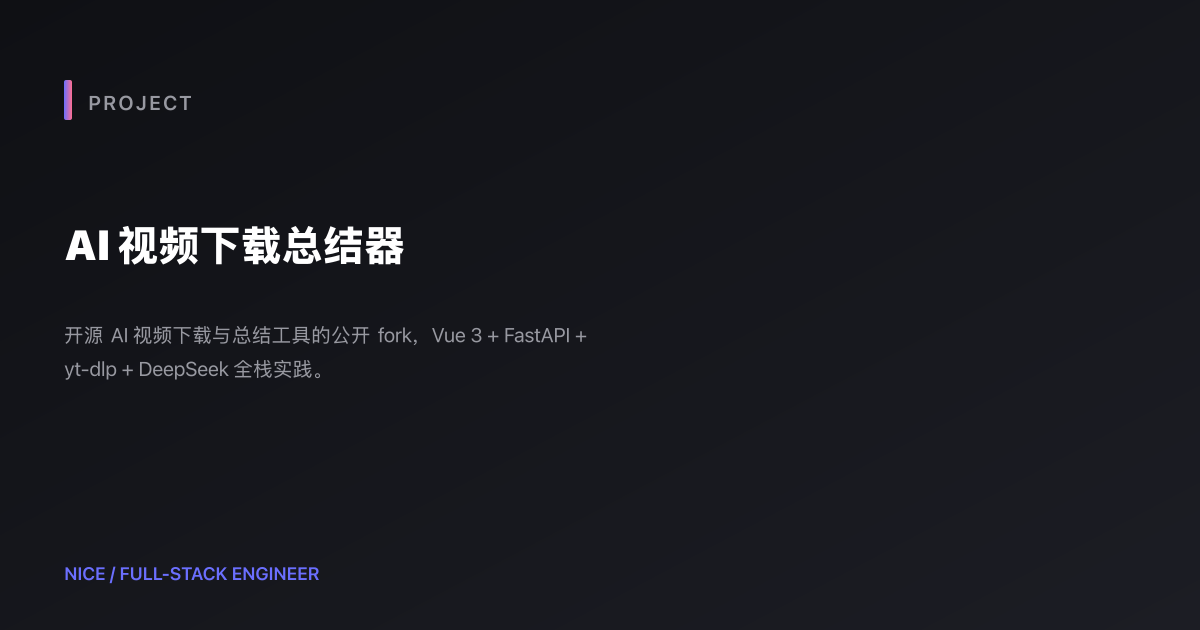
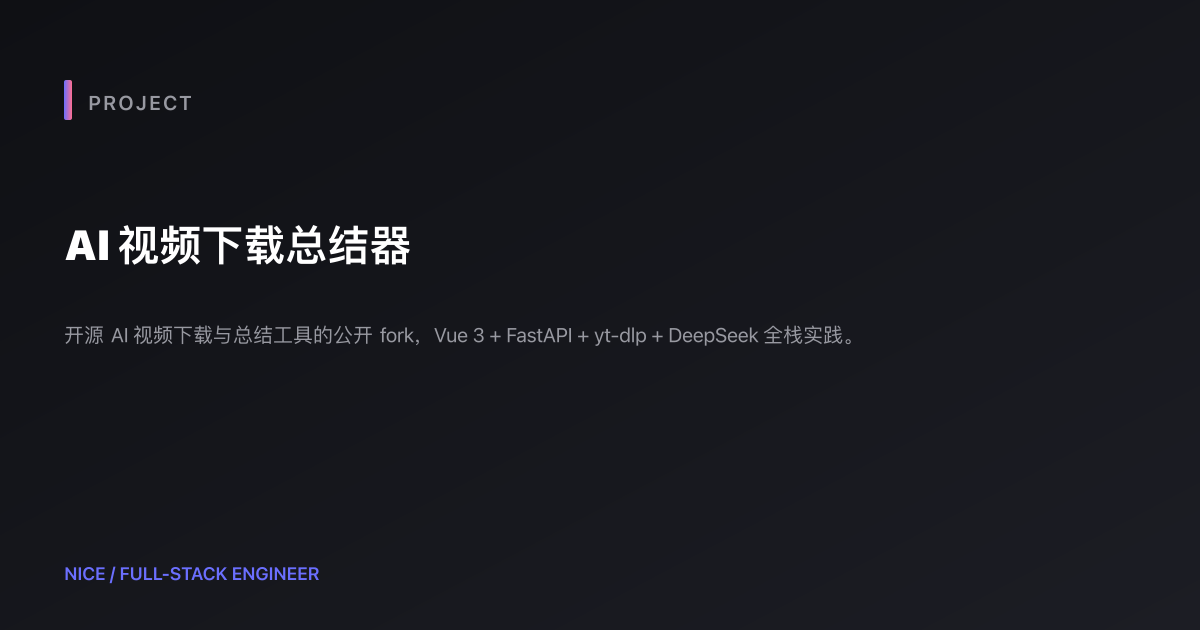
fix(site): 修复焦点环、留言板链接与 OG 图路径判断
- 搜索框不再写 outline:none，保留全局 :focus-visible 键盘焦点环
- 后台审核页「查看页面」改用页面地址，修复留言板 term 生成相对链接 404
- OG 图路径抽到 lib 并按路径段判断，避免 categories 前缀的项目 id 误回落默认图
- 代码块复制按钮按按钮高度补顶部留白，避免遮挡首行
- 截图弹窗打开时锁住底页滚动，避免背景跟随滚动
- 同日文章排序改用 id 兜底；搜索页描述与归档页/品牌保持一致
- 同步更新 tests 与构建产出的 OG 图片

Changed region(s): [[0.0617, 0.5127, 0.7092, 0.5429], [0.0925, 0.3619, 0.3392, 0.4222], [0.0617, 0.573, 0.2775, 0.6032]]

diff --git a/src/lib/og-image.ts b/src/lib/og-image.ts
@@ -3,7 +3,7 @@
  * 返回 SVG（Sharp 支持作为输入），由 Astro SSG 路由转 PNG 输出到 dist。
  *
  * 设计参数（固定，避免动态依赖）：
- *   尺寸 1200×630（OG 标准），内边距 64，最大标题字重 800 34px 截断 2 行。
+ *   尺寸 1200×630（OG 标准），内边距 64，标题 42px 加粗，最多 2 行、超出以省略号截断。
  */
 
 export interface OgPayload {
@@ -19,17 +19,32 @@ export interface OgPayload {
   coverImageUrl?: string;
 }
 
+/**
+ * 页面路径 → OG 图路径。
+ * 只有文章/项目详情页有按内容生成的图（generate-og.mjs 按内容 id 输出），
+ * 列表、标签、分类等页面统一回退站点默认图，避免 og:image 指向 404。
+ */
+export function buildOgPath(pathname: string): string {
+  const [section, ...rest] = pathname.split('/').filter(Boolean);
+  // 按路径段判断，避免 /projects/categories-xxx/ 这类以 categories 开头的项目 id 被误判成分类页。
+  const isDetail = rest.length > 0
+    && (section === 'articles' || (section === 'projects' && rest[0] !== 'categories'));
+  return isDetail ? `/og/${[section, ...rest].join('/')}.png` : '/og/root.png';
+}
+
 /** 硬编码字体 SVG，Sharp rasterize 时转成 PNG。使用系统 sans-serif stack。 */
 export function renderOgSvg(payload: OgPayload): string {
   const { eyebrow, title, description = '', footer = 'NICE / FULL-STACK ENGINEER' } = payload;
 
-  const titleLines = wrapLines(title, 30, 2);
-  const descLines = description ? wrapLines(description, 44, 3) : [];
+  const titleLines = wrapLines(title, { fontSize: 42, maxWidth: CONTENT_WIDTH, maxLines: 2 });
+  const descLines = description
+    ? wrapLines(description, { fontSize: 20, maxWidth: CONTENT_WIDTH, maxLines: 3 })
+    : [];
 
   const titleY = 260;
   const descY = titleY + titleLines.length * 52 + 30;
 
-  const footerSafe = footer.replace(/&/g, '&amp;').replace(/</g, '&lt;');
+  const footerText = escapeSvg(footer);
 
   const titleText = titleLines
     .map((line, i) => `<tspan x="64" dy="${i === 0 ? 0 : 52}">${escapeSvg(line)}</tspan>`)
@@ -53,11 +68,11 @@ export function renderOgSvg(payload: OgPayload): string {
   </defs>
   <rect width="1200" height="630" fill="url(#bg)"/>
   <rect x="64" y="80" width="8" height="40" fill="url(#accent)" rx="2"/>
-  <text x="88" y="110" font-family="system-ui, -apple-system, 'Segoe UI', sans-serif" font-size="20" font-weight="600" fill="#9899a1" letter-spacing="0.12em">${escapeSvg(eyebrow.toUpperCase())}</text>
-  <text x="64" y="${titleY}" font-family="system-ui, -apple-system, 'Segoe UI', sans-serif" font-size="42" font-weight="800" fill="#ffffff">${titleText}</text>
-  ${descText ? `<text x="64" y="${descY}" font-family="system-ui, -apple-system, 'Segoe UI', sans-serif" font-size="20" fill="#9899a1">${descText}</text>` : ''}
+  <text x="88" y="110" font-family="${FONT_STACK}" font-size="20" font-weight="600" fill="#9899a1" letter-spacing="0.12em">${escapeSvg(eyebrow.toUpperCase())}</text>
+  <text x="64" y="${titleY}" font-family="${FONT_STACK}" font-size="42" font-weight="800" fill="#ffffff">${titleText}</text>
+  ${descText ? `<text x="64" y="${descY}" font-family="${FONT_STACK}" font-size="20" fill="#9899a1">${descText}</text>` : ''}
   <line x1="64" y1="540" x2="240" y2="540" stroke="url(#accent)" stroke-width="2" stroke-linecap="round"/>
-  <text x="64" y="580" font-family="system-ui, -apple-system, 'Segoe UI', sans-serif" font-size="18" fill="#6b6fff" font-weight="600">${footerSafe}</text>
+  <text x="64" y="580" font-family="${FONT_STACK}" font-size="18" fill="#6b6fff" font-weight="600">${footerText}</text>
 </svg>`;
 }
 
@@ -69,25 +84,86 @@ function escapeSvg(input: string): string {
     .replace(/"/g, '&quot;');
 }
 
-function wrapLines(text: string, maxCharsPerLine: number, maxLines: number): string[] {
-  const words = text.trim().split(/\s+/);
+/**
+ * 字体栈。Sharp/librsvg 按字体族逐个匹配字形，缺少中文字体会把
+ * 全角标点（如「｜」U+FF5C）渲染成豆腐块，因此显式带上系统中文字体。
+ */
+const FONT_STACK = `system-ui, -apple-system, 'PingFang SC', 'Hiragino Sans GB', 'Segoe UI', sans-serif`;
+
+const CONTENT_WIDTH = 1200 - 64 * 2;
+/** 中日韩文字按 1em、其余按 0.55em 估算宽度，避免依赖字体度量。 */
+const CJK_PATTERN = /[\u2e80-\u9fff\uac00-\ud7af\u3000-\u303f\uff00-\uffef]/;
+
+function textWidth(text: string, fontSize: number): number {
+  let width = 0;
+  for (const char of text) {
+    width += CJK_PATTERN.test(char) ? fontSize : fontSize * 0.55;
+  }
+  return width;
+}
+
+/** 无空格的超长片段（中文标题、URL）先按宽度硬切，保证后续能换行。 */
+function splitToken(token: string, fontSize: number, maxWidth: number): string[] {
+  const chars = Array.from(token);
+  const totalWidth = chars.reduce((sum, char) => sum + textWidth(char, fontSize), 0);
+  // 按预期行数均分宽度，避免末行只剩一两个字（如 26 字标题切成 25 + 1）。
+  const targetWidth = totalWidth / Math.ceil(totalWidth / maxWidth);
+
+  const chunks: string[] = [];
+  let chunk = '';
+  let width = 0;
+
+  for (const char of chars) {
+    const charWidth = textWidth(char, fontSize);
+    if (chunk && width + charWidth > targetWidth) {
+      chunks.push(chunk);
+      chunk = '';
+      width = 0;
+    }
+    chunk += char;
+    width += charWidth;
+  }
+  if (chunk) chunks.push(chunk);
+
+  return chunks;
+}
+
+function wrapLines(
+  text: string,
+  { fontSize, maxWidth, maxLines }: { fontSize: number; maxWidth: number; maxLines: number },
+): string[] {
+  const tokens = text
+    .replace(/\s+/g, ' ')
+    .trim()
+    .split(' ')
+    .filter(Boolean)
+    .flatMap((token) => (textWidth(token, fontSize) > maxWidth
+      ? splitToken(token, fontSize, maxWidth)
+      : [token]));
+
   const lines: string[] = [];
   let current = '';
-  for (const word of words) {
-    const candidate = current ? current + ' ' + word : word;
-    if (candidate.length > maxCharsPerLine) {
-      if (current) lines.push(current);
-      current = word;
+
+  for (const token of tokens) {
+    const candidate = current ? `${current} ${token}` : token;
+    if (current && textWidth(candidate, fontSize) > maxWidth) {
+      lines.push(current);
+      current = token;
     } else {
       current = candidate;
     }
-    if (lines.length >= maxLines - 1) break;
   }
-  if (current && lines.length < maxLines) lines.push(current);
-  if (lines.length >= maxLines) {
-    const lastIdx = maxLines - 1;
-    const last = lines[lastIdx] ?? '';
-    lines[lastIdx] = last.length > maxCharsPerLine - 1 ? last.slice(0, maxCharsPerLine - 1) + '…' : last + '…';
+  if (current) lines.push(current);
+
+  if (lines.length <= maxLines) return lines;
+
+  // 超出行数：保留前 maxLines 行，末行逐步回缩到能容纳省略号，避免贴边溢出。
+  const kept = lines.slice(0, maxLines);
+  const lastChars = Array.from(kept[maxLines - 1]!);
+  while (lastChars.length > 0 && textWidth(`${lastChars.join('')}…`, fontSize) > maxWidth) {
+    lastChars.pop();
   }
-  return lines;
+  kept[maxLines - 1] = `${lastChars.join('')}…`;
+
+  return kept;
 }

diff --git a/tests/images.test.ts b/tests/images.test.ts
@@ -3,6 +3,7 @@ import { join } from 'node:path';
 
 import { describe, expect, it } from 'vitest';
 
+import { buildOgPath, renderOgSvg } from '../src/lib/og-image';
 import { readMarkdownFrontmatter } from './_helpers/frontmatter';
 
 const ALLOWED_EXTENSIONS = ['.avif', '.jpeg', '.jpg', '.png', '.svg', '.webp'];
@@ -175,5 +176,53 @@ describe('图片资源', () => {
       const { size } = statSync(filePath);
       expect(size, `${filePath} 超过 512 KB，请压缩后再上传`).toBeLessThanOrEqual(MAX_UPLOAD_BYTES);
     }
+  });
+});
+
+describe('OG 社交图路径', () => {
+  it('列表、标签、分类与管理页回退站点默认图', () => {
+    expect(buildOgPath('/')).toBe('/og/root.png');
+    expect(buildOgPath('/articles/')).toBe('/og/root.png');
+    expect(buildOgPath('/tags/astro/')).toBe('/og/root.png');
+    expect(buildOgPath('/projects/')).toBe('/og/root.png');
+    expect(buildOgPath('/projects/categories/')).toBe('/og/root.png');
+    expect(buildOgPath('/projects/categories/design/')).toBe('/og/root.png');
+    expect(buildOgPath('/projects/categories-archive/')).toBe('/og/projects/categories-archive.png');
+    expect(buildOgPath('/admin/review/')).toBe('/og/root.png');
+  });
+
+  it('文章与项目详情页跟随内容生成图，嵌套 id 也不会误回落', () => {
+    expect(buildOgPath('/articles/redisearch-result-set/')).toBe('/og/articles/redisearch-result-set.png');
+    expect(buildOgPath('/projects/dobotcn/')).toBe('/og/projects/dobotcn.png');
+    expect(buildOgPath('/articles/series/part-one/')).toBe('/og/articles/series/part-one.png');
+  });
+});
+
+describe('OG 社交图渲染', () => {
+  function tspanCount(svg: string): number {
+    return svg.match(/<tspan/g)?.length ?? 0;
+  }
+
+  it('短标题单行渲染且不出现省略号', () => {
+    const svg = renderOgSvg({ eyebrow: 'BLOG POST', title: 'Redis 搜索结果集' });
+
+    expect(tspanCount(svg)).toBe(1);
+    expect(svg).not.toContain('…');
+  });
+
+  it('无空格长中文标题自动换行，最多两行并以省略号截断', () => {
+    const title = '一个每日自动签到系统的工程笔记：从登录态维持、设备锁识别到任务幂等重试的完整实践复盘，包含调度编排、失败补偿与告警观测的全部设计细节与线上演练';
+    const svg = renderOgSvg({ eyebrow: 'BLOG POST', title });
+
+    expect(title.length).toBeGreaterThan(70);
+    expect(tspanCount(svg)).toBe(2);
+    expect(svg).toContain('…');
+  });
+
+  it('标题中的 HTML 被转义，不会破坏 SVG 结构', () => {
+    const svg = renderOgSvg({ eyebrow: 'BLOG POST', title: '<script>alert(1)</script>' });
+
+    expect(svg).toContain('&lt;script&gt;');
+    expect(svg).not.toContain('<script');
   });
 });

diff --git a/tests/build-smoke.test.ts b/tests/build-smoke.test.ts
@@ -122,6 +122,8 @@ describe('static site build', () => {
 
     const projects = readFileSync('dist/projects/index.html', 'utf8');
     expect(projects).toContain('data-project-filter');
+    // 列表页没有按内容生成的 OG 图，必须回退站点默认图而不是指向 404
+    expect(projects).toContain('/og/root.png');
 
     const detailSlugs = readdirSync('dist/projects', { withFileTypes: true })
       .filter((entry) => entry.isDirectory() && existsSync(join('dist/projects', entry.name, 'index.html')))
@@ -143,6 +145,8 @@ describe('static site build', () => {
       expect(detail).toContain('project-showcase');
       expect(detail).toContain(`/images/projects/${cover}`);
       expect(detail).toContain('property="og:image"');
+      expect(detail).toContain(`/og/projects/${slug}.png`);
+      expect(existsSync(`dist/og/projects/${slug}.png`), `og/projects/${slug}.png`).toBe(true);
       expect(detail).toContain('"@type":"SoftwareSourceCode"');
 
       const frontmatter = readProjectFrontmatter(slug);
@@ -217,6 +221,8 @@ describe('static site build', () => {
     const article = readFileSync('dist/articles/redisearch-result-set/index.html', 'utf8');
     expect(article).toContain('文章目录');
     expect(article).toContain('"@type":"BlogPosting"');
+    expect(article).toContain('/og/articles/redisearch-result-set.png');
+    expect(existsSync('dist/og/articles/redisearch-result-set.png')).toBe(true);
 
     const articlesIndex = readFileSync('dist/articles/index.html', 'utf8');
     const tagsIndex = readFileSync('dist/tags/index.html', 'utf8');
@@ -226,6 +232,8 @@ describe('static site build', () => {
     expect(tagsIndex).toContain('href="/tags/git/"');
     expect(tagIndex).toMatch(/<h1[^>]*># Git<\/h1>/);
     expect(tagIndex).toContain('href="/tags/"');
+    expect(articlesIndex).toContain('/og/root.png');
+    expect(tagIndex).toContain('/og/root.png');
     expect(readFileSync('dist/index.html', 'utf8')).toContain('href="/tags/"');
   });
 

diff --git a/tests/content.test.ts b/tests/content.test.ts
@@ -38,6 +38,15 @@ describe('content helpers', () => {
     expect(entries[0]!.data.publishedAt.getUTCFullYear()).toBe(2025);
   });
 
+  it('同一发布时间下按 id 兜底排序，保证输出顺序稳定', () => {
+    const entries = [
+      { id: 'zeta', data: { publishedAt: new Date('2026-07-10') } },
+      { id: 'alpha', data: { publishedAt: new Date('2026-07-10') } },
+    ];
+
+    expect(sortByPublishedAt(entries).map((entry) => entry.id)).toEqual(['alpha', 'zeta']);
+  });
+
   it('hides drafts only in production', () => {
     expect(isVisibleEntry({ data: { draft: true } }, true)).toBe(false);
     expect(isVisibleEntry({ data: { draft: true } }, false)).toBe(true);

diff --git a/src/lib/content.ts b/src/lib/content.ts
@@ -2,7 +2,7 @@ interface DatedEntry {
   data: {
     publishedAt: Date;
   };
-  slug?: string;
+  id?: string;
 }
 
 interface DraftEntry {
@@ -24,9 +24,9 @@ export function sortByPublishedAt<T extends DatedEntry>(entries: readonly T[]): 
     const diff = right.data.publishedAt.getTime() - left.data.publishedAt.getTime();
     if (diff !== 0) return diff;
 
-    const leftSlug = left.slug ?? '';
-    const rightSlug = right.slug ?? '';
-    return leftSlug.localeCompare(rightSlug);
+    const leftId = left.id ?? '';
+    const rightId = right.id ?? '';
+    return leftId.localeCompare(rightId);
   });
 }
 

diff --git a/src/styles/global.css b/src/styles/global.css
@@ -282,8 +282,8 @@ img {
 
 .empty-page {
   display: grid;
-  min-height: 70dvh;
   min-height: 70vh;
+  min-height: 70dvh;
   place-items: center;
   text-align: center;
 }
